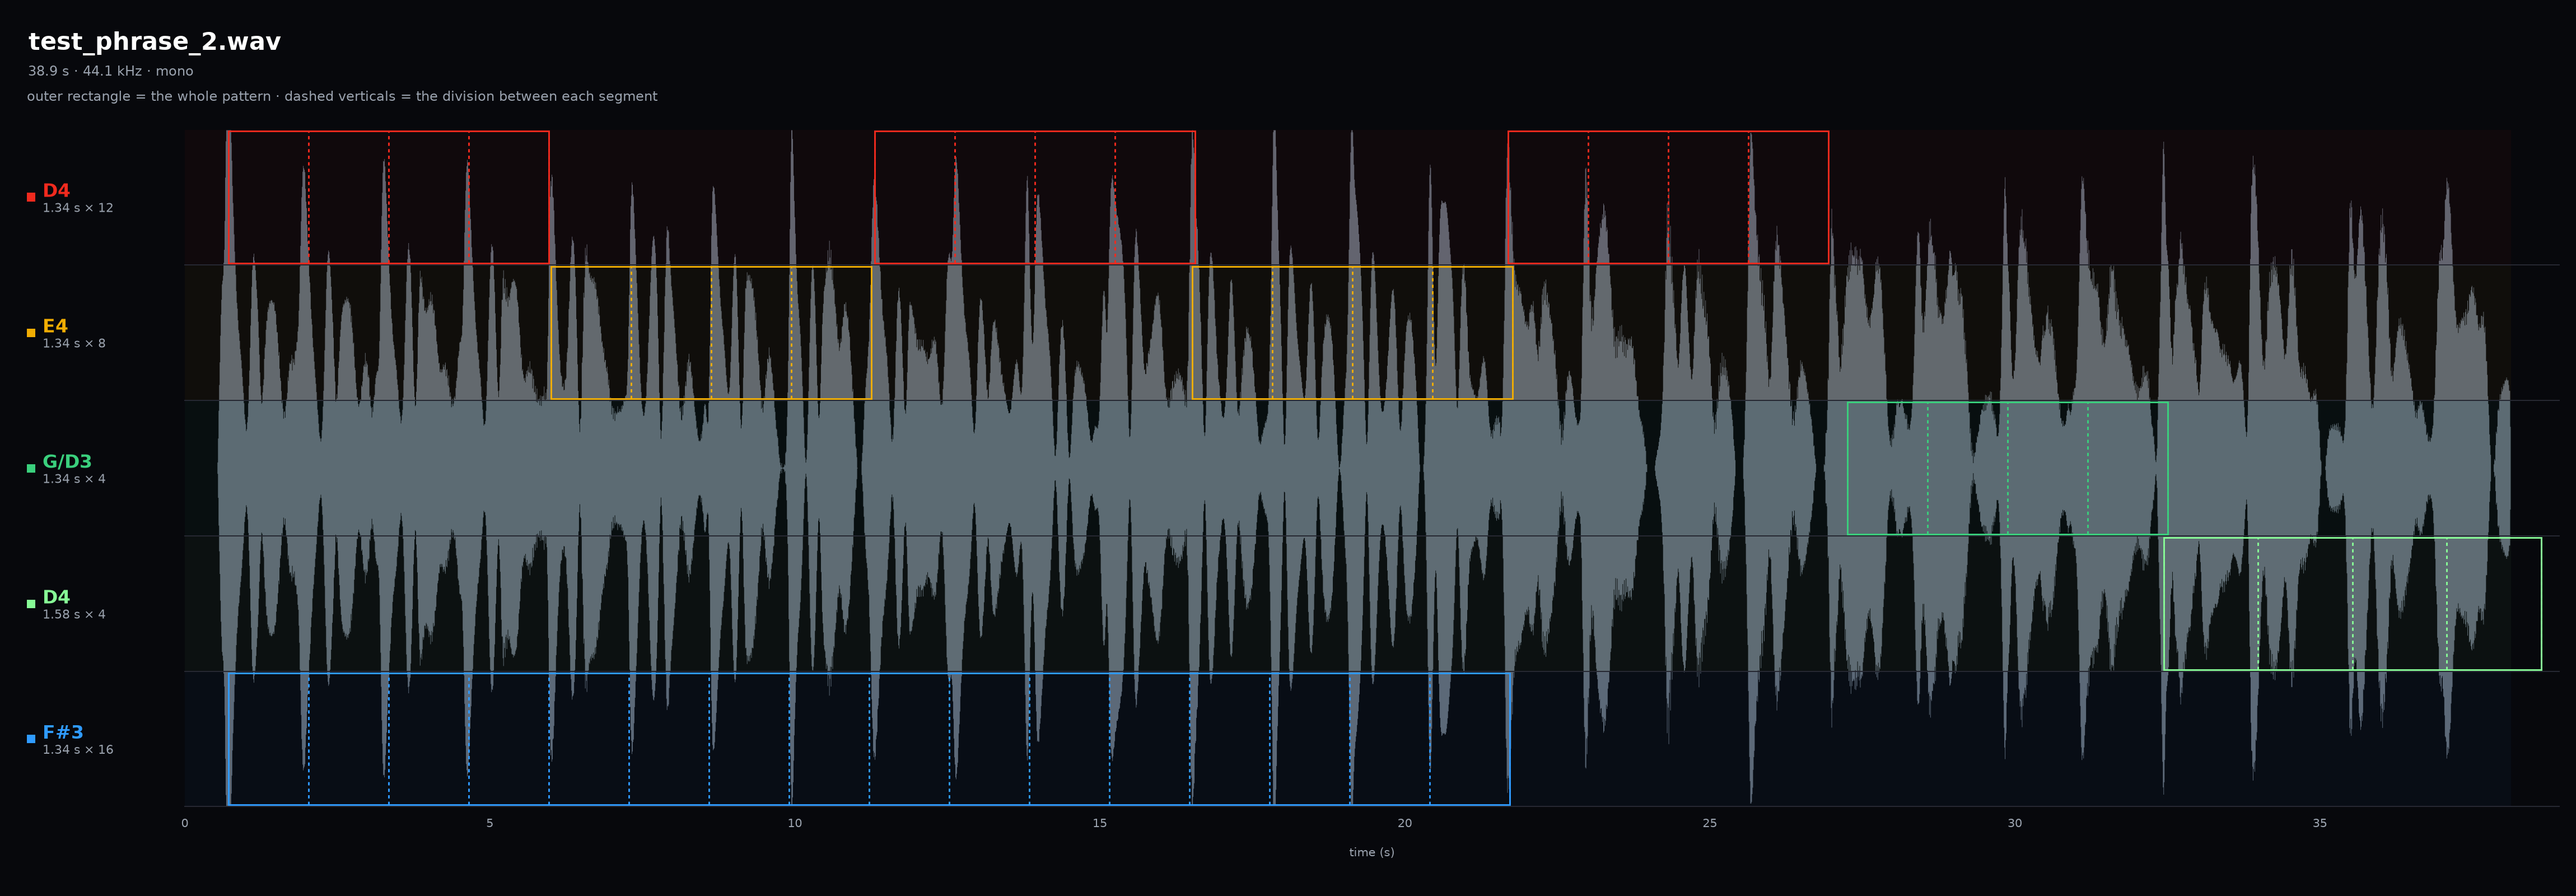
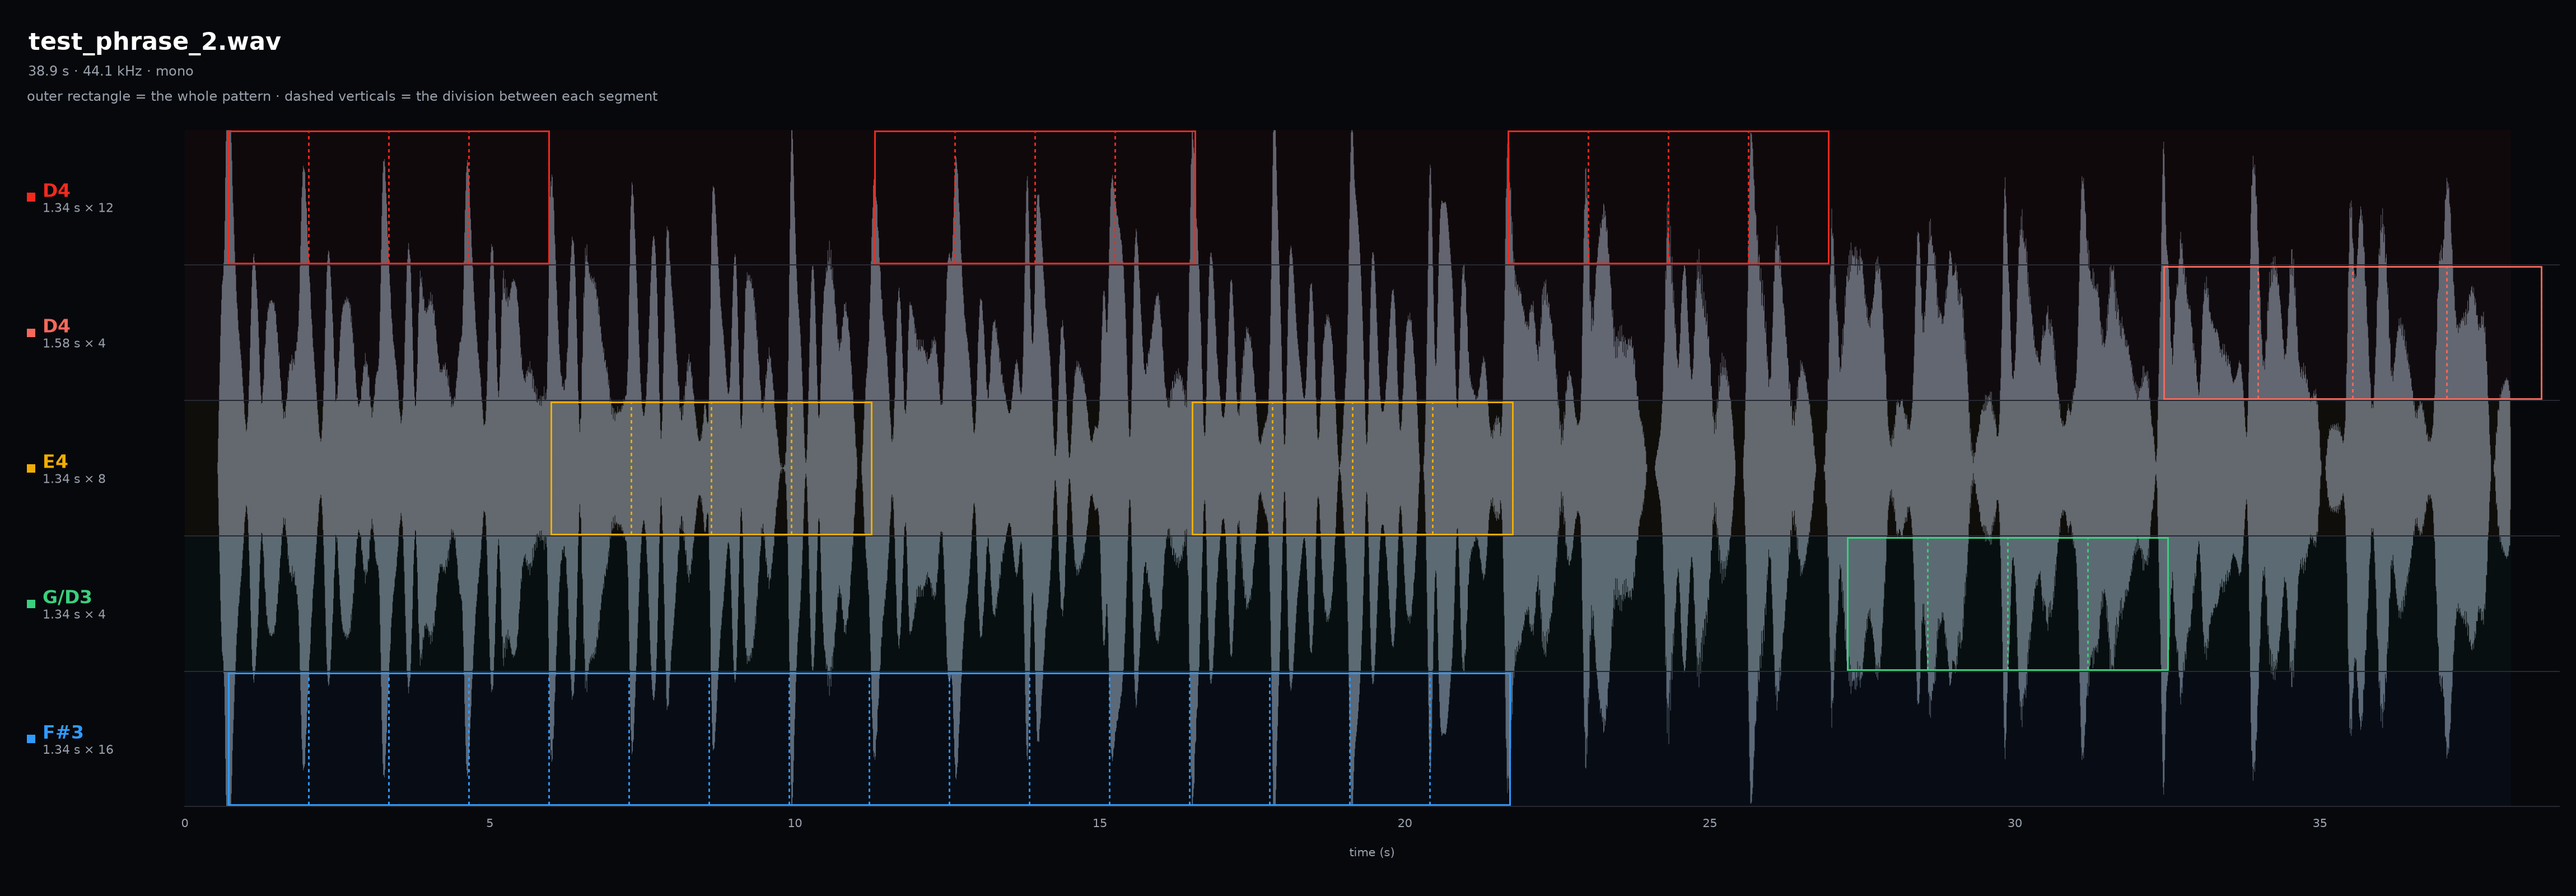
Put the slower D4 row next to the other D4 and give it a lighter red
Both rows track the same element, so they belong together instead of being
separated by the E4 and G/D3 rows. The second red now reads as the same
element with a different segment spacing rather than a different element.

🤖 Generated with Codebuff

diff --git a/skills/analyze-palettes/calibration_tests/diagram_template.py b/skills/analyze-palettes/calibration_tests/diagram_template.py
@@ -26,9 +26,9 @@ ROWS = {
     ],
     "test_phrase_2": [
         ("D4", "#f12a1e", (232, 472), (0.73, 11.54, 22.14), 1.340, [(0, 4)] * 3),
-        ("E4", "#f1ad03", (474, 714), (6.13, 16.86), 1.340, [(0, 4)] * 2),
-        ("G/D3", "#3ad07d", (716, 956), (27.82,), 1.340, [(0, 4)]),
-        ("D4", "#87fa96", (958, 1198), (33.11,), 1.580, [(0, 4)]),
+        ("D4", "#f4695a", (474, 714), (33.11,), 1.580, [(0, 4)]),
+        ("E4", "#f1ad03", (716, 956), (6.13, 16.86), 1.340, [(0, 4)] * 2),
+        ("G/D3", "#3ad07d", (958, 1198), (27.82,), 1.340, [(0, 4)]),
         ("F#3", "#2f9bff", (1200, 1439), (0.73,), 1.340, [(0, 16)]),
     ],
 }

diff --git a/skills/analyze-palettes/calibration_tests/README.md b/skills/analyze-palettes/calibration_tests/README.md
@@ -69,10 +69,13 @@ Each test phrase below will have a key with the "correct" stats that should be d
 | Tracked element | Segment length (s) | Segments | Region (s) |
 |---|---:|---:|---|
 | D4 | 1.34 | 4, 4, 4 | 0.73–6.09, 11.54–16.90, 22.14–27.50 |
+| D4 | 1.58 | 4 | 33.11–39.43 |
 | E4 | 1.34 | 4, 4 | 6.13–11.49, 16.86–22.22 |
 | G/D3 | 1.34 | 4 | 27.82–33.18 |
-| D4 | 1.58 | 4 | 33.11–39.43 |
 | F#3 | 1.34 | 16 | 0.73–22.17 |
+
+The second D4 row is drawn in a lighter red: same element, slower segment
+spacing.
 
 ## Discussion
 
